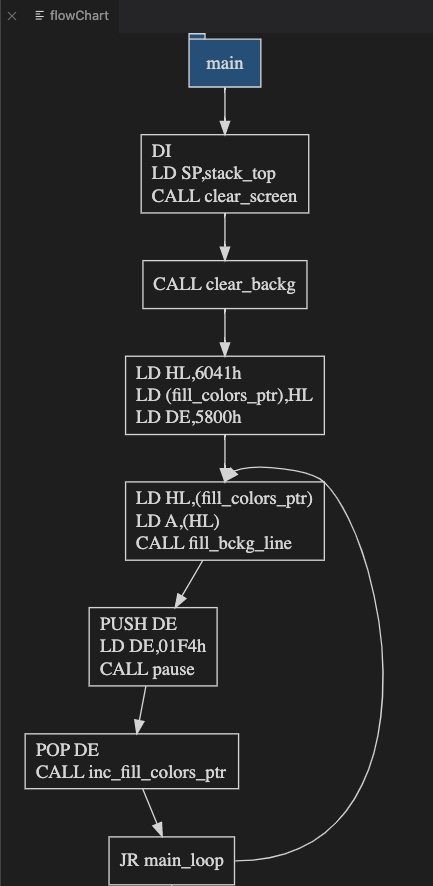
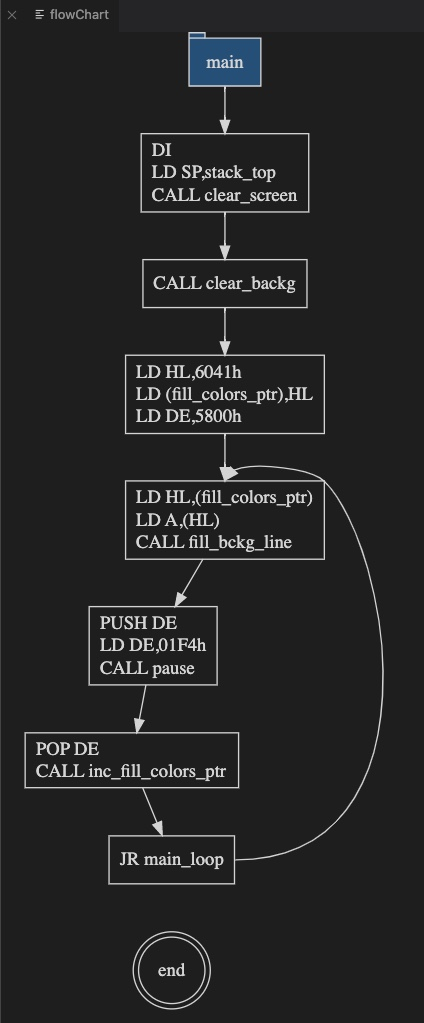
Flowchart: fixed misleading 'end' after JP.

diff --git a/src/disassembler/disasm.ts b/src/disassembler/disasm.ts
@@ -2862,9 +2862,15 @@ export class Disassembler extends EventEmitter {
 
 		// Check if subroutine ends here (RET or JP)
 		if (opcode.flags & (OpcodeFlag.STOP | OpcodeFlag.RET)) {
+		//if (opcode.flags & (OpcodeFlag.RET)) {
 			// Subroutine ends
 			assert(addrsArray.length > 0);
-			text += branch + ' -> b' + Format.getHexString(addrsArray[0], 4) + 'end;\n';
+			let color = '';
+			if (!(opcode.flags & (OpcodeFlag.RET))) {
+				// If not a RET: hide connection: make it transparent
+				color = ' [color="transparent"]';
+			}
+			text += branch + ' -> b' + Format.getHexString(addrsArray[0], 4) + 'end' + color + ';\n';
 		}
 
 		// Return
